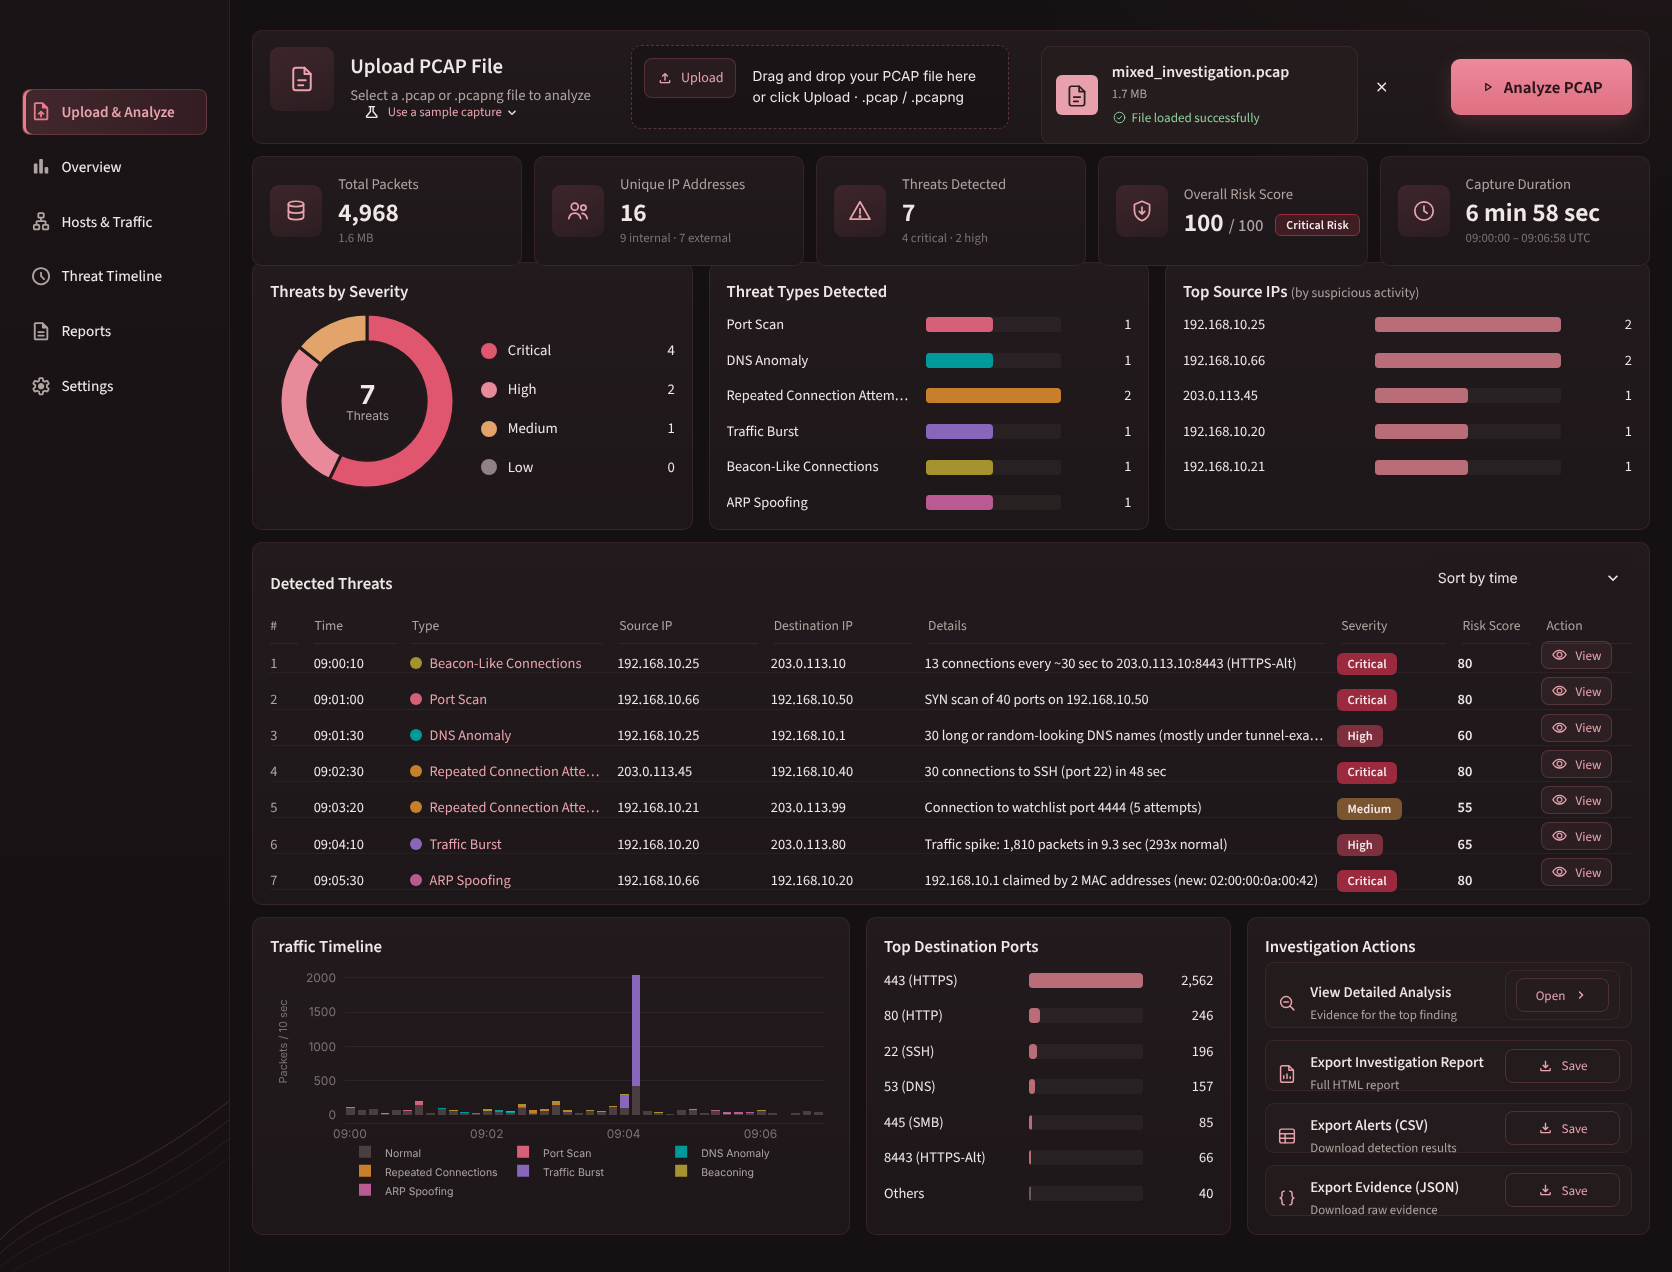
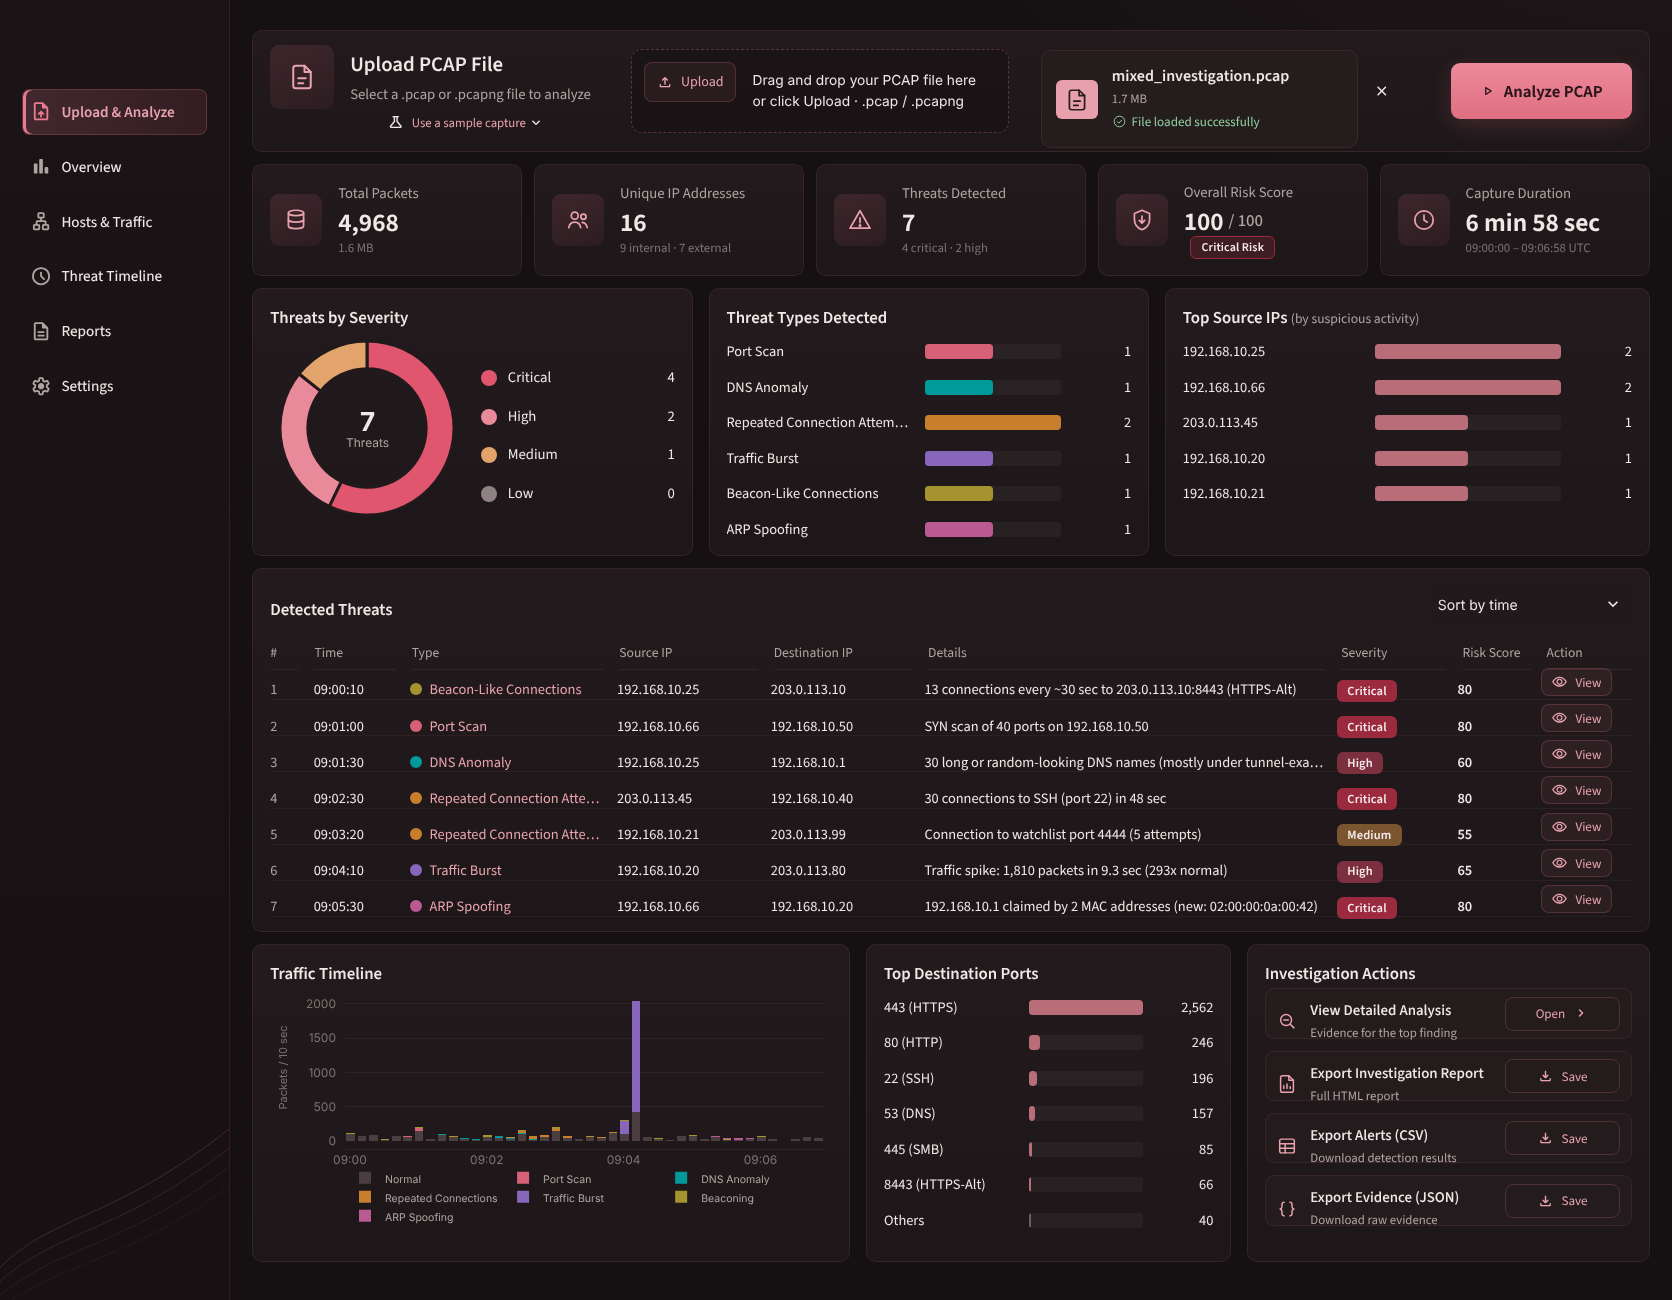
Fix dashboard layout spacing and Open button, refresh dashboard screenshot

diff --git a/app/style.css b/app/style.css
@@ -96,7 +96,7 @@ div[class*="st-key-panel-"], div[class*="st-key-export-card-"] { padding: 0.95re
 .upload-intro { display: flex; align-items: center; gap: 1rem; }
 .upload-title { font-size: 1.3rem; font-weight: 600; color: var(--text); }
 .upload-sub { font-size: 0.92rem; color: var(--muted); margin-top: 0.1rem; }
-.st-key-upload-bar [data-testid="stPopover"] { margin-left: 3.9rem; margin-top: -0.4rem; }
+.st-key-upload-bar [data-testid="stPopover"] { margin-left: 4.9rem; margin-top: 0.35rem; }
 .st-key-upload-bar [data-testid="stPopover"] button { padding: 0 !important; min-height: 0; }
 .st-key-upload-bar [data-testid="stPopover"] button p { font-size: 0.8rem; color: var(--rose-soft); }
 
@@ -157,7 +157,8 @@ div[class*="st-key-panel-"], div[class*="st-key-export-card-"] { padding: 0.95re
   color: var(--rose-soft);
 }
 .icon-tile.big { width: 64px; height: 64px; min-width: 64px; }
-.stat-grid { display: grid; grid-template-columns: repeat(5, minmax(0, 1fr)); gap: 0.75rem; }
+/* margin-bottom cancels Streamlit's -1rem markdown margin so the cards do not touch the next row */
+.stat-grid { display: grid; grid-template-columns: repeat(auto-fit, minmax(210px, 1fr)); gap: 0.75rem; margin-bottom: 1rem; }
 .stat-card {
   display: flex; align-items: center; gap: 1rem;
   background: linear-gradient(180deg, #221A1C 0%, #1E1719 100%);
@@ -165,7 +166,8 @@ div[class*="st-key-panel-"], div[class*="st-key-export-card-"] { padding: 0.95re
 }
 .stat-body { min-width: 0; }
 .stat-label { font-size: 0.92rem; color: var(--muted); }
-.stat-value { font-size: 1.6rem; font-weight: 650; color: var(--text); line-height: 1.25; white-space: nowrap; }
+.stat-value { font-size: 1.6rem; font-weight: 650; color: var(--text); line-height: 1.25; white-space: nowrap;
+  display: flex; flex-wrap: wrap; align-items: center; column-gap: 0.3rem; }
 .stat-value .of { font-size: 1.05rem; color: var(--muted); font-weight: 500; }
 .stat-sub { font-size: 0.8rem; color: var(--faint); white-space: nowrap; overflow: hidden; text-overflow: ellipsis; }
 .badge {

diff --git a/app/views/dashboard.py b/app/views/dashboard.py
@@ -250,7 +250,7 @@ def investigation_actions(result) -> None:
             with button_col:
                 if export is None:
                     top = max(result.findings, key=lambda f: f.score) if result.findings else None
-                    if st.button("Open", key="action-detail", icon=":material/chevron_right:", icon_position="right",
+                    if st.button("Open", key="open-detail", icon=":material/chevron_right:", icon_position="right",
                                  disabled=top is None, width="stretch"):
                         show_finding_dialog(top.id)
                 else:
